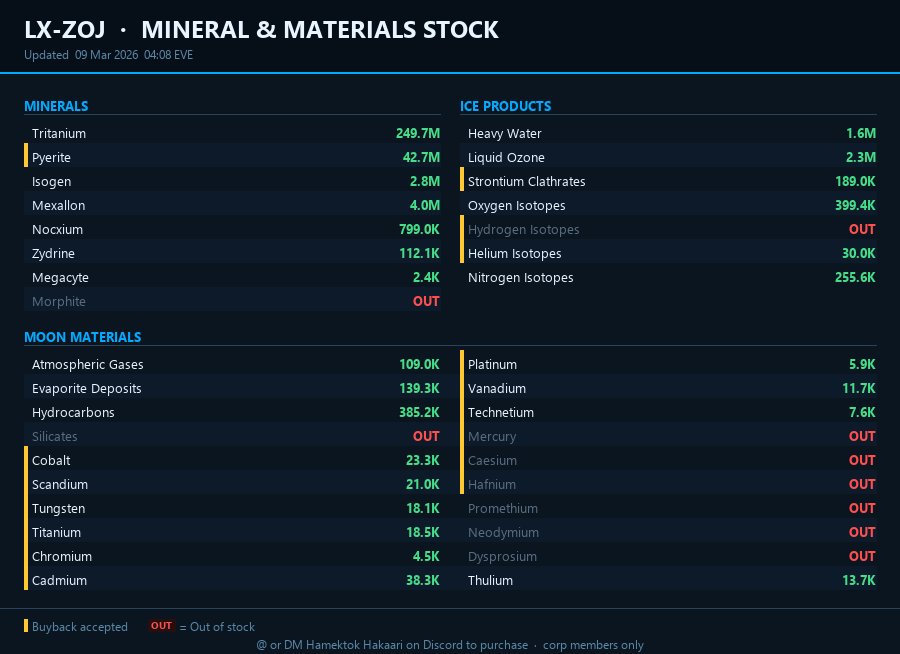
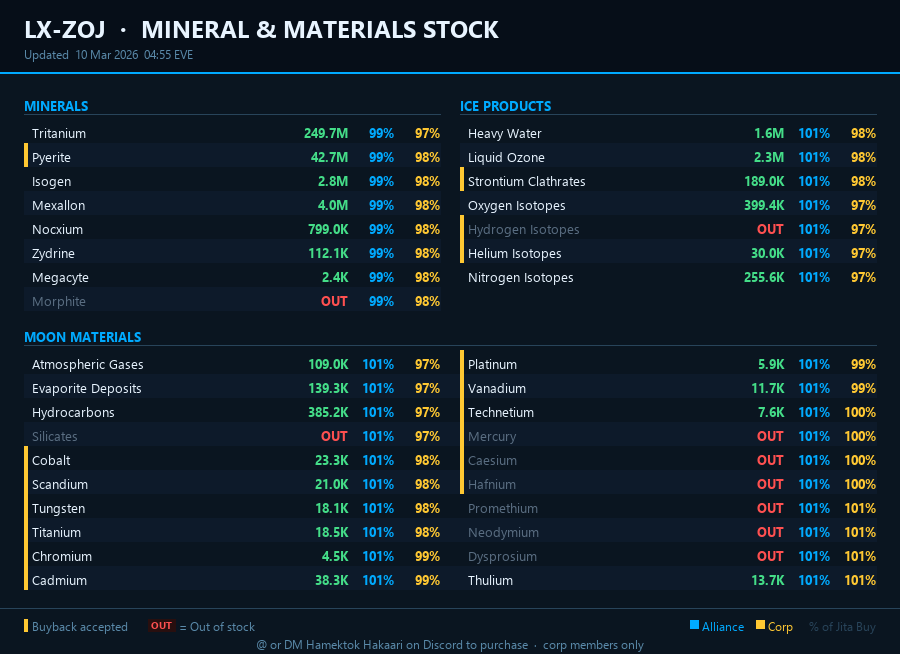
Auto-update: inventory timestamp + regenerated stock/slots images
stock_image.png rebuilt with price percentage columns added last session.

diff --git a/index_final.html b/index_final.html
@@ -3237,7 +3237,7 @@ Tip: Copy directly from EVE inventory window"></textarea>
                         "Zydrine": 112113
             },
             "blueprintsLastUpdated": "Mar 10, 2026 08:00 EVE",
-            "inventoryLastUpdated": "Mar 10, 2026 06:08 EVE"
+            "inventoryLastUpdated": "Mar 10, 2026 14:08 EVE"
 };
 
         let BLUEPRINT_DATA = [
